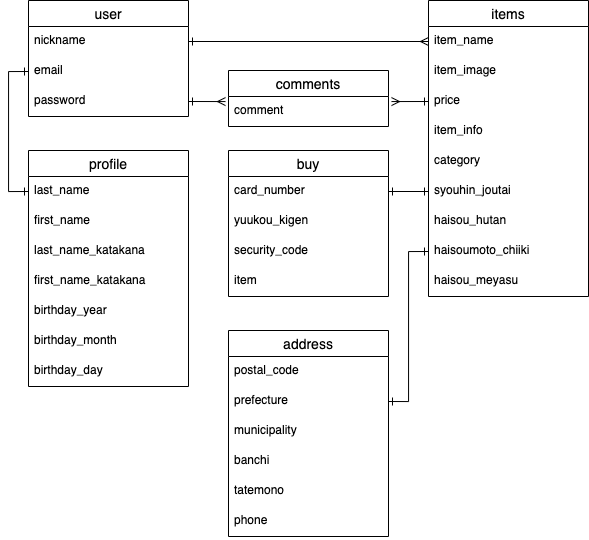
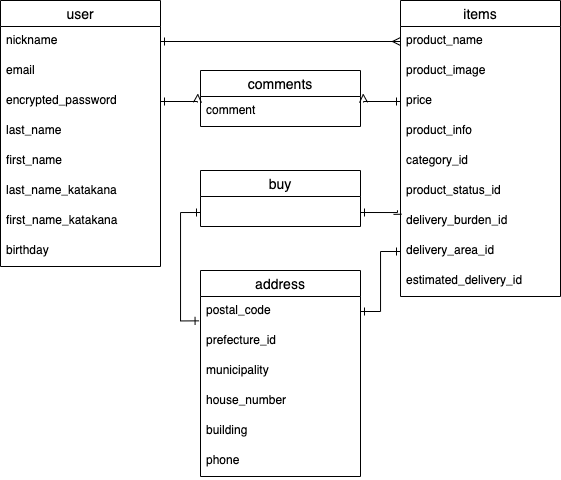
ER,README作成2

Changed region(s): [[0.0, 0.0, 1.0, 1.0], [0.9697, 0.5938, 1.0, 0.625]]

diff --git a/README.md b/README.md
@@ -22,53 +22,40 @@ Things you may want to cover:
 * Deployment instructions
 
 * ...
-# テーブル設計
 
-## users テーブル
+# table design
 
-| Column   | Type   | Options     |
-| -------- | ------ | ----------- |
-| nickname | string | null: false |
-| email    | string | null: false |
-| password | string | null: false |
+## users table
+
+| Column              | Type         | Options                  |
+| ------------------- | ------------ | ------------------------ |
+| nickname            | string       | null: false              |
+| email               | string       | null: false, unique: true|
+| encrypted_password  | string       | null: false              |
+| last_name           | string       | null: false              |
+| first_name          | string       | null: false              |
+| last_name_katakana  | string       | null: false              |
+| first_name_katakana | string       | null: false              |
+| birthday            | date         | null: false              |
 
 ### Association
 
 - has_many :items
 - has_many :comments
-- has_one :profile
 
-## profile テーブル
+## items table
 
-| Column              | Type         | Options     |
-| ------------------- | ------------ | ----------- |
-| last_name           | string       | null: false |
-| first_name          | string       | null: false |
-| last_name_katakana  | string       | null: false |
-| first_name_katakana | string       | null: false |
-| birthday_year       | date         | null: false |
-| birthday_month      | date         | null: false |
-| birthday_day        | date         | null: false |
-| user                | references   |             |
-
-### Association
-
-- belongs_to :users
-
-## items テーブル
-
-| Column            | Type       | Options     |
-| ----------------- | ---------- | ----------- |
-| item_name         | string     | null: false |
-| item_image        | string     | null: false |
-| price             | integer    | null: false |
-| item_info         | text       | null: false |
-| category          | string     | null: false |
-| syouhin_joutai    | string     | null: false |
-| haisou_hutan      | string     | null: false |
-| haisoumoto_chiiki | string     | null: false |
-| haisou_meyasu     | string     | null: false |
-| user              | references |             |
+| Column                | Type       | Options     |
+| --------------------- | ---------- | ----------- |
+| product_name          | string     | null: false |
+| price                 | integer    | null: false |
+| product_info          | text       | null: false |
+| category_id           | integer    | null: false |
+| product_status_id     | integer    | null: false |
+| delivery_burden_id    | integer    | null: false |
+| delivery_area_id      | integer    | null: false |
+| estimated_delivery_id | integer    | null: false |
+| user_id               | references |             |
 
 ### Association
 
@@ -77,7 +64,7 @@ Things you may want to cover:
 - has_one :address
 - belongs_to :users
 
-## comments テーブル
+## comments table
 
 | Column  | Type       | Options     |
 | ------- | ---------- | ----------- |
@@ -90,31 +77,29 @@ Things you may want to cover:
 - belongs_to :users
 - belongs_to :items
 
-## buy テーブル
+## buy table
+
+| Column | Type       | Options |
+| ------ | ---------- | ------- |
+| item   | references |         |
+
+### Association
+
+- belongs_to :item
+- has_one :address
+
+## address table
 
 | Column        | Type       | Options     |
 | ------------- | ---------- | ----------- |
-| card_number   | integer    | null: false |
-| yuukou_kigen  | integer    | null: false |
-| security_code | integer    | null: false |
-| item          | references |             |
+| postal_code   | string     | null: false |
+| prefecture_id | integer    | null: false |
+| municipality  | string     | null: false |
+| house_number  | string     | null: false |
+| building      | string     |             |
+| phone         | string     | null: false |
+| buy           | references |             |
 
 ### Association
 
-- belongs_to :items
-
-## address テーブル
-
-| Column       | Type       | Options     |
-| ------------ | ---------- | ----------- |
-| postal_code  | integer    | null: false |
-| prefecture   | string     | null: false |
-| municipality | string     | null: false |
-| banchi       | string     | null: false |
-| tatemono     | string     | null: false |
-| phone        | integer    | null: false |
-| item         | references |             |
-
-### Association
-
-- belongs_to :items
+- belongs_to :buy
